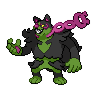
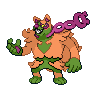
Teal Mask Update
#9: Added the Teal Mask mons, forms, and shinies
close #92

diff --git a/pokemon_arrays.js b/pokemon_arrays.js
@@ -163,7 +163,11 @@ var arrays = {
 	   "IRONLEAVES",
 	   "DIPPLIN",
 	   "POLTCHAGEIST",
-	   "OGERPON"
+	   "SINISTCHA",
+	   "OGERPON",
+	   "OGERPON_1",
+	   "OGERPON_2",
+	   "OGERPON_3"
 	  ]
 	 ],
 	 "Poison": [
@@ -282,7 +286,7 @@ var arrays = {
 	   "CLODSIRE",
 	   "IRONMOTH",
 	   "OKIDOGI",
-	   "MONKIDORI",
+	   "MUNKIDORI",
 	   "FEZANDIPITI"
 	  ]
 	 ],
@@ -404,6 +408,7 @@ var arrays = {
 	   "SCOVILLAIN",
 	   "IRONMOTH",
 	   "CHIYU",
+	   "OGERPON_2",
 	   "TAUROS_2"
 	  ]
 	 ],
@@ -912,6 +917,7 @@ var arrays = {
 	   "TATSUGIRI_2",
 	   "IRONBUNDLE",
 	   "WALKINGWAKE",
+	   "OGERPON_1",
 	   "TAUROS_3"
 	  ]
 	 ],
@@ -1245,7 +1251,8 @@ var arrays = {
 	   "CYCLIZAR",
 	   "FARIGIRAF",
 	   "DUDUNSPARCE",
-	   "DUDUNSPARCE_1"
+	   "DUDUNSPARCE_1",
+	   "URSALUNA_1"
 	  ]
 	 ],
 	 "Dark": [
@@ -1255,7 +1262,8 @@ var arrays = {
 	   "MISSINGNO_1",
 	   "MISSINGNO_2",
 	   "MISSINGNO_3",
-	   "MISSINGNO_4"
+	   "MISSINGNO_4",
+	   "SUBSTITUTE"
 	  ],
 	  [
 	   "UMBREON",
@@ -1672,7 +1680,7 @@ var arrays = {
 	   "SCREAMTAIL",
 	   "IRONCROWN",
 	   "IRONLEAVES",
-	   "MONKIDORI"
+	   "MUNKIDORI"
 	  ]
 	 ],
 	 "Ground": [
@@ -1786,7 +1794,8 @@ var arrays = {
 	   "GREATTUSK",
 	   "SANDYSHOCKS",
 	   "IRONTREADS",
-	   "TINGLU"
+	   "TINGLU",
+	   "URSALUNA_1"
 	  ]
 	 ],
 	 "Ice": [
@@ -2335,7 +2344,8 @@ var arrays = {
 	   "KLAWF",
 	   "GLIMMET",
 	   "GLIMMORA",
-	   "IRONTHORNS"
+	   "IRONTHORNS",
+	   "OGERPON_3"
 	  ]
 	 ],
 	 "Ghost": [
@@ -2440,7 +2450,8 @@ var arrays = {
 	   "GIMMIGHOUL",
 	   "GIMMIGHOUL_1",
 	   "GHOLDENGO",
-	   "POLTCHAGEIST"
+	   "POLTCHAGEIST",
+	   "SINISTCHA"
 	  ]
 	 ],
 
@@ -3040,9 +3051,12 @@ var arrays = {
 	   "RAGINGBOLT",
 	   "IRONCROWN",
 	   "OKIDOGI",
-	   "MONKIDORI",
+	   "MUNKIDORI",
 	   "FEZANDIPITI",
 	   "OGERPON",
+	   "OGERPON_1",
+	   "OGERPON_2",
+	   "OGERPON_3",
 	   "TERAPAGOS"
 	  ]
 	 ],
@@ -3261,7 +3275,8 @@ var arrays = {
 		"WUGTRIO",
 		"TOEDSCOOL",
 		"TOEDSCRUEL",
-		"POLTCHAGEIST"
+		"POLTCHAGEIST",
+		"SINISTCHA"
 	  ]
 	 ],
 	 "Baby": [
@@ -3331,6 +3346,7 @@ var arrays = {
 		"WYRDEER",
 		"KLEAVOR",
 		"URSALUNA",
+		"URSALUNA_1",
 		"BASCULEGION",
 		"BASCULEGION_1",
 		"SNEASLER",

diff --git a/index.html b/index.html
@@ -78,7 +78,7 @@ canvas {
 #credits {
 	top: 1610px;
 	left: 600px;
-	width: 500px;
+	width: 600px;
 	position: absolute;
 }
 .bubble {
@@ -1717,10 +1717,8 @@ canvas {
 </div>
 <div id="credits">
 	<b>Updates</b><br>
-	• <a href="https://www.deviantart.com/retronc">RetroNC's</a> DLC mons have been added to the Legend/Paradox/Evo boxes!<br>
-	   They aren't in the type boxes, but can be added via the import box as usual.<br>
-	• <a href="https://twitter.com/JordanosArt">Jordanos's</a> Walking Wake and Iron Leaves have been added!<br>
-	• Other Gen 9 DLC mons will be added once we have types and sprites.<br>
+	• Teal Mask Pokemon and their shinies have been added!<br>
+	• Indigo Disk mons will be added once we have types and sprites.<br>
 	• The website will now remember your choices on refresh 🍪<br>
 	• Gen 6 Gimmick now lets you choose your favorite Mega.<br>
 	• Added Baby, New Evo, and language support!<br/>
@@ -1728,7 +1726,8 @@ canvas {
 	<b>Credits</b><br>
 	<a href="https://github.com/CajunAvenger/cajunavenger.github.io">Source Code</a> - <a href="https://github.com/CajunAvenger/cajunavenger.github.io/issues">Issues or Feature Requests?</a> - <a href="https://twitter.com/cajunwritescode">Twitter</a><br />
 	• Walking Wake and Iron Leaves sprites by <a href="https://twitter.com/JordanosArt">JordanosArt</a><br>
-	• Other later generation sprites from the <a href="https://reliccastle.com/resources/1101/">Gen 8<a> and <a href="https://reliccastle.com/resources/952/">Gen 9</a> Resource Packs.<br />
+	• Archaludon, Dipplin, Iron Crown, Raging Bolt, Okidogi, and Terapagos from <a href="https://www.deviantart.com/retronc">RetroNC</a>.<br>
+	• Other later generation sprites from the <a href="https://reliccastle.com/resources/1101/">Gen 8<a> and <a href="https://reliccastle.com/resources/952/">Gen 9</a> Resource Packs, and <a href="https://github.com/PokeAPI/sprites/">PokeAPI</a><br />
 	• If you want to support more code silliness, you can donate to my <s>caffeine addiction</s> <a href="https://ko-fi.com/cajun42">Ko-Fi</a>.<br />
 </div>
 </body>

diff --git a/README.md b/README.md
@@ -35,6 +35,8 @@ If you want to do something like put Galarian Meowth as your favorite Gen 1 gimm
 ## Additional Sprites
 Walking Wake and Iron Leaves sprites from [JordanosArt](https://twitter.com/JordanosArt).
 
-Archaludon, Dipplin, Poltchageist, Iron Crown, Raging Bolt, Okidogi, Munkidori, Fezandipii, Ogerpon, and Terapagos frmo [RetroNC](https://www.deviantart.com/retronc).
+Archaludon, Dipplin, Iron Crown, Raging Bolt, Okidogi, and Terapagos from [RetroNC](https://www.deviantart.com/retronc).
 
-Later generation sprites from the [Gen 8 Project](https://reliccastle.com/resources/1101/) and [Gen 9 Project](https://reliccastle.com/resources/952/).
+Substitute, Poltchageist, Sinistcha, Munkidori, Fezandipiti, Ogerpon, and Bloom Moon Ursaluna from [PokeAPI](https://github.com/PokeAPI/sprites)
+
+Later generation sprites from the [Gen 8 Project](https://reliccastle.com/resources/1101/), [Gen 9 Project](https://reliccastle.com/resources/952/), and [PokeAPI](https://github.com/PokeAPI/sprites)
